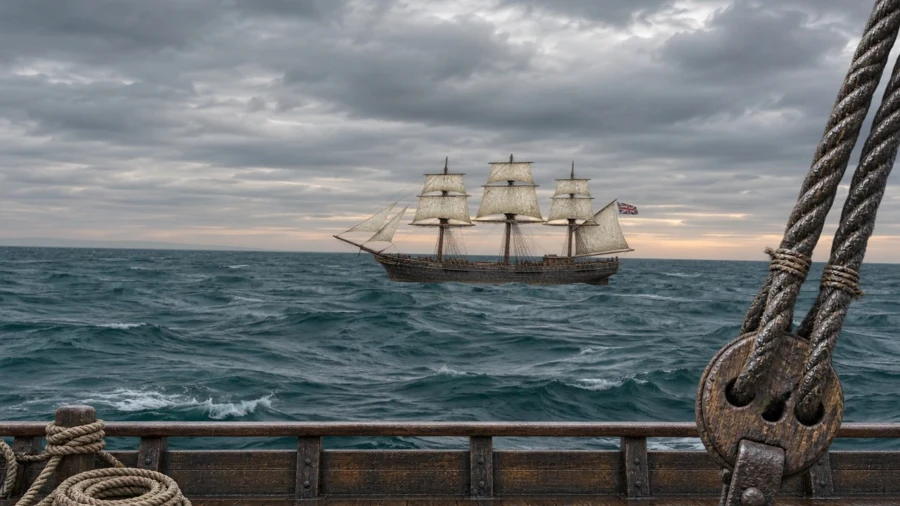
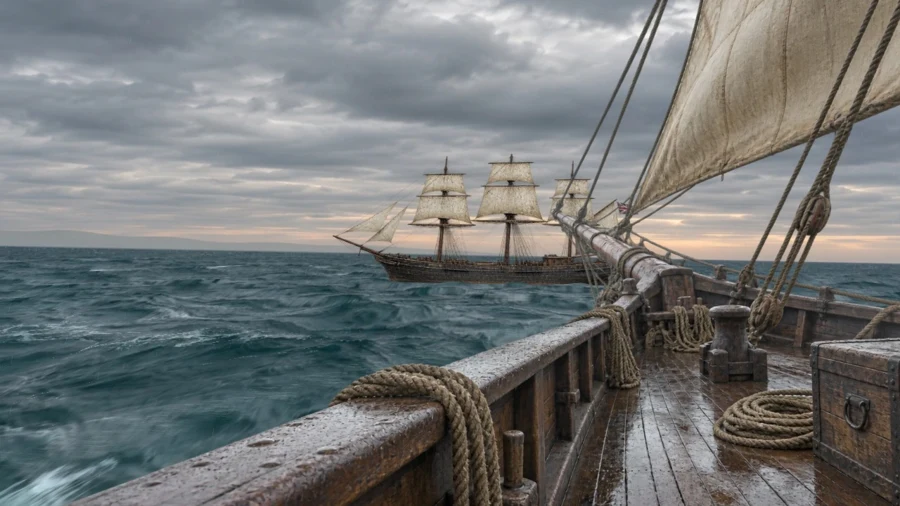
Sail forward past a fixed quay with a foredeck view and bow wash

diff --git a/js/voyage.js b/js/voyage.js
@@ -14,15 +14,19 @@ function waterSurface(image) {
     return t => {
       const w=surface.width, h=surface.height;
       ctx.drawImage(image,0,0,w,h);
-      for (let y=h/2; y<h; y+=3) {
-        const d=(2*y-h)/h, range=3.7/Math.max(.014,d);
-        const swell=Math.sin(.63*range-.81*t);
-        const cross=Math.sin(.46*range-1.08*t);
-        const sourceY=(y/h+d*(.29*swell+.13*cross)*.069)*image.height;
-        const shift=d*(8*swell+4*cross);
-        ctx.drawImage(image,0,Math.max(0,Math.min(image.height-5,sourceY)),image.width,4,
-          -14+shift,y,w+28,3.1);
+      const age=t%6, other=(t+3)%6, focus=.61*w;
+      for (const [seconds,opacity] of [[other,1],[age,1-Math.abs(age-3)/3]]) {
+        ctx.globalAlpha=opacity;
+        for (let y=h/2; y<h; y+=3) {
+          const d=(2*y-h)/h, range=3.7/Math.max(.014,d);
+          const ratio=range/(range+1.7*seconds);
+          const swell=Math.sin(.63*(range+t*1.7)-.81*t);
+          const sourceY=(.5+(y/h-.5+d*.018*swell)*ratio)*image.height;
+          ctx.drawImage(image,focus/w*(1-ratio)*image.width,Math.min(image.height-4,sourceY),
+            image.width*ratio,4,0,y,w,3.1);
+        }
       }
+      ctx.globalAlpha=1;
       return surface;
     };
   }
@@ -36,13 +40,20 @@ function waterSurface(image) {
   gl.attachShader(program, shader(gl.VERTEX_SHADER, 'attribute vec2 p; varying vec2 uv; void main(){uv=vec2(p.x*.5+.5,.5-p.y*.5);gl_Position=vec4(p,0.,1.);}'));
   gl.attachShader(program, shader(gl.FRAGMENT_SHADER, `precision highp float;
     varying vec2 uv; uniform sampler2D sea; uniform float time;
+    // Reproject from a recent point along the track. Two overlapping
+    // reference times keep photographic wave detail streaming past indefinitely.
+    vec3 underway(vec2 q,float range,float age){
+      float ratio=range/(range+age*1.7);
+      vec2 focus=vec2(.61,.5);
+      return texture2D(sea,focus+(q-focus)*ratio).rgb;
+    }
     void main(){
       vec2 q=uv;
       float d=clamp((q.y-.50)*2.,0.,1.);
       // Intersect the sightline with the sea plane. A metre of swell
       // occupies many pixels by the rail and a fraction of one at the horizon.
       float range=3.7/max(.014,d);
-      vec2 world=vec2((q.x-.5)*range*2.6+time*.34,range);
+      vec2 world=vec2((q.x-.61)*range*2.6,range+time*1.7);
       vec2 k1=vec2(.39,.63), k2=vec2(-.78,.46), k3=vec2(1.72,.94);
       float longWave=dot(world,k1)-time*.81;
       float crossWave=dot(world,k2)-time*1.08;
@@ -51,9 +62,20 @@ function waterSurface(image) {
       float height=.29*sin(longWave)+.13*sin(crossWave)+.045*sin(ripple);
       vec2 slope=.29*k1*cos(longWave)+.13*k2*cos(crossWave)+.045*k3*cos(ripple);
       q.y+=amplitude*d*height*.069;
-      q.x+=d*(time*.0016+.009*slope.x);
+      q.x+=d*.009*slope.x;
       q.x=1.-abs(mod(q.x,2.)-1.);
-      vec3 col=texture2D(sea,q).rgb;
+      float age=mod(time,6.);
+      float other=mod(time+3.,6.);
+      vec3 traveling=mix(underway(q,range,other),underway(q,range,age),1.-abs(age-3.)/3.);
+      vec3 col=mix(texture2D(sea,q).rgb,traveling,smoothstep(.005,.05,d));
+      // Foam flecks on the water have fixed world coordinates. Nearby flecks
+      // expand out from the heading and run aft as the camera overtakes them.
+      vec2 seaPatch=world*vec2(.059,.105)+vec2(.12*slope.y,.08*slope.x);
+      vec2 folded=1.-abs(mod(seaPatch,2.)-1.);
+      vec3 grain=texture2D(sea,vec2(.09+.78*folded.x,.75+.22*folded.y)).rgb;
+      float nearWater=smoothstep(.07,.49,d);
+      col=mix(col,grain,.33*nearWater);
+      col+=vec3(.24,.27,.27)*smoothstep(.38,.66,grain.g)*nearWater;
       float facing=dot(slope,vec2(-.45,.84));
       col*=1.+amplitude*(.10*facing+.035*height);
       col+=vec3(.030,.036,.039)*amplitude*smoothstep(.045,.32,facing);
@@ -78,7 +100,7 @@ function waterSurface(image) {
 }
 
 export async function voyageScene(canvas) {
-  const [sea, harbor, merchant, rail, shrouds] = await Promise.all(['sea','harbor','merchant','rail','shrouds'].map(async name => {
+  const [sea, harbor, merchant, foredeck, foam] = await Promise.all(['sea','harbor','merchant','foredeck','wash'].map(async name => {
     const img = new Image(); img.src = new URL(name+'.webp',BASE); await img.decode(); return img;
   }));
   canvas.width=1280; canvas.height=720;
@@ -109,6 +131,38 @@ export async function voyageScene(canvas) {
   haze.addColorStop(0,'rgba(94,113,120,.58)'); haze.addColorStop(1,'rgba(132,144,146,.49)');
   coast.fillStyle=haze; coast.fill();
 
+  function waterfront(travel) {
+    // The quay runs obliquely down the port edge of the channel. Project each
+    // bay from its fixed position in metres; the lighthouse is at the outer end.
+    const columns=144, focal=790, eye=3.8, horizon=359;
+    const project=u=>{
+      const z=33+77*u-travel;
+      return { z, x:780+focal*(-66+42*u)/z, scale:focal/z };
+    };
+    for (let i=0;i<columns;i++) {
+      const a=project(i/columns), b=project((i+1)/columns);
+      if (a.z<1 || b.z<1 || b.x < -60 || a.x>1332) continue;
+      const scale=(a.scale+b.scale)/2;
+      const h=13.8*scale, bottom=horizon+eye*scale;
+      c.drawImage(harbor,i*harbor.width/columns,0,harbor.width/columns,harbor.height,
+        a.x,bottom-h,b.x-a.x+.6,h);
+    }
+  }
+
+  function bowWash(t,open) {
+    // Each patch is shed at the stem and widens down the port side as it falls aft.
+    for (let i=0;i<76;i++) {
+      const age=(t*.23+i*.618034)%1;
+      const spread=Math.sin(i*78.53);
+      const y=451+266*age*age;
+      const x=795-1040*age*age+(22+78*age)*spread;
+      const w=(24+118*age)*(1+.22*Math.sin(i*4.12));
+      c.globalAlpha=(.16+.30*open)*Math.sin(Math.PI*age)**.65;
+      c.drawImage(foam,x-w/2,y,w,w*(.09+.12*age));
+    }
+    c.globalAlpha=1;
+  }
+
   return t => {
     const route=t/2;
     const open=ease((route-5)/21);
@@ -120,10 +174,10 @@ export async function voyageScene(canvas) {
     c.save(); c.translate(640,354+lift); c.rotate(roll); c.translate(-640,-354);
     const surface=water(t);
     c.drawImage(surface,-52,-30,1384,780);
-    c.drawImage(land,-550-route*40,281,2400,80);
-    const depart=clamp(route/31);
-    const width=2030-380*depart;
-    vessel(harbor,-360-50*route-0.43*route*route+lean*.3,379-13*depart,width,0,true);
+    const travel=1.7*t;
+    // Kilometres beyond the quay, the distant ridge barely changes bearing.
+    c.drawImage(land,-1520-travel*.22,281,2400,80);
+    waterfront(travel);
     // Opposing course. The merchant rises on a different swell from our deck.
     const x=1480-(route-14)*53;
     const proximity=Math.exp(-Math.pow((x-485)/820,2));
@@ -151,13 +205,11 @@ export async function voyageScene(canvas) {
       }
     }
     c.restore();
-    // The viewer is braced against the rail. All apparent roll belongs to the world.
-    const rh=1290*rail.height/rail.width;
-    c.drawImage(rail,-5+lean*.5,720-rh+18+lift*.12,1290,rh);
-    // The shrouds hang closer to the viewer than the rail. A small body lean
-    // changes the gap between them while the same horizon stays in view.
-    const shroudHeight=754, shroudWidth=shroudHeight*shrouds.width/shrouds.height;
-    c.drawImage(shrouds,1280-shroudWidth+24+lean*1.45,-12+lift*.28,shroudWidth,shroudHeight);
+    c.save();
+    c.translate(lean*.45, lift*.18);
+    bowWash(t,open);
+    c.drawImage(foredeck,-7,-5,1294,730);
+    c.restore();
     c.strokeStyle='rgba(194,207,212,.14)'; c.lineWidth=.8; c.beginPath();
     for (let i=0;i<83;i++) {
       const x=(i*317.63-t*(61+i%7)+12800)%1300;

diff --git a/sw.js b/sw.js
@@ -2,7 +2,7 @@
 // shadowed by stale JS or a stale manifest (v3 and older served the old shell first, which paired old player
 // code with the new schema-2 manifest => no video chain and no music). Media (mp4/mp3) is deliberately NOT
 // intercepted: iOS needs HTTP Range responses for <video>/<audio>, which Cache API replays badly.
-const VER = 'ws-v18';
+const VER = 'ws-v19';
 const SHELL = ['./', 'index.html', 'manifest.webmanifest', 'css/app.css', 'js/app.js', 'js/engine.js', 'js/audio.js', 'js/scenes.js',
   'js/player.js', 'js/window.js', 'js/journey.js', 'js/sync.js', 'js/request.js', 'js/config.js', 'icons/icon-192.png', 'icons/icon-512.png', 'icons/apple-touch-icon.png',
   'themes/index.json', 'themes/dark-academia-train/manifest.json',

diff --git a/voyage.html b/voyage.html
@@ -14,7 +14,7 @@ audio {width:min(100%,600px)} footer {justify-content:center} #status {text-alig
 </head>
 <body><main>
 <header><h1>Leaving Ravensgate</h1><a href="./">Journey library</a></header>
-<canvas width="1280" height="720" aria-label="View from the rail as the ship leaves Ravensgate and passes a merchant vessel"></canvas>
+<canvas width="1280" height="720" aria-label="View along the port bow as the ship leaves Ravensgate and passes a merchant vessel"></canvas>
 <footer><audio controls preload="auto" aria-label="Play, pause, or scrub the voyage" src="themes/pirate-voyage/departure.mp3"></audio></footer>
 <p id="status" role="status">Loading the harbor…</p>
 </main><script type="module">
